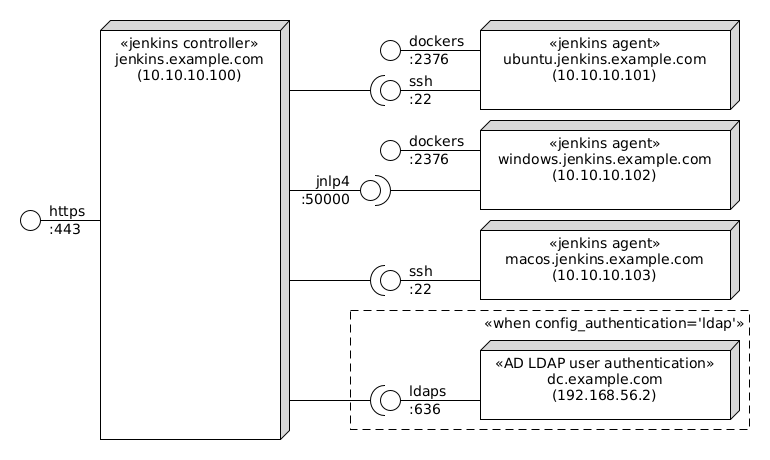
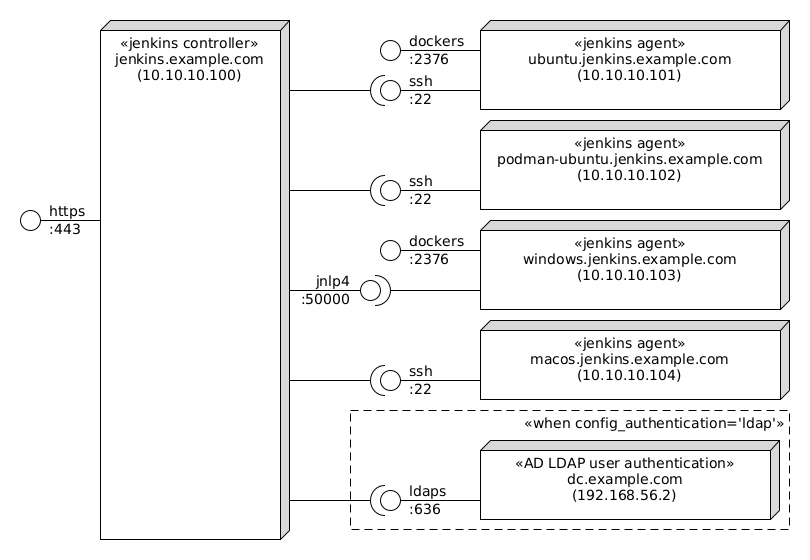
add the podman-ubuntu agent node

diff --git a/README.md b/README.md
@@ -15,6 +15,8 @@ This configures Jenkins through [CLI/JNLP](https://www.jenkins.io/doc/book/manag
 * Create Multibranch Pipeline job.
 * Add a Ubuntu Linux agent node.
   * With docker and docker compose.
+* Add a Podman Ubuntu Linux agent node.
+  * With podman and podman compose.
 * Add a Windows agent node.
   * With docker and docker compose.
   * With enabled long path support on the OS and chocolatey.
@@ -41,7 +43,7 @@ Add the following entry to your `/etc/hosts` file:
 
 ```
 10.10.10.100 jenkins.example.com
-10.10.10.102 windows.jenkins.example.com
+10.10.10.103 windows.jenkins.example.com
 ```
 
 If you want to use LDAP for user authentication, you have to:
@@ -58,6 +60,8 @@ one of the example accounts, e.g. `alice.doe` and password `password`).
 **NB** nginx is setup with a self-signed certificate that you have to trust before being able to access the local Jenkins home page.
 
 Run `vagrant up --no-destroy-on-error ubuntu` to launch the Ubuntu agent.
+
+Run `vagrant up --no-destroy-on-error podman-ubuntu` to launch the Podman Ubuntu agent.
 
 Run `vagrant up --no-destroy-on-error windows` to launch the Windows agent.
 
